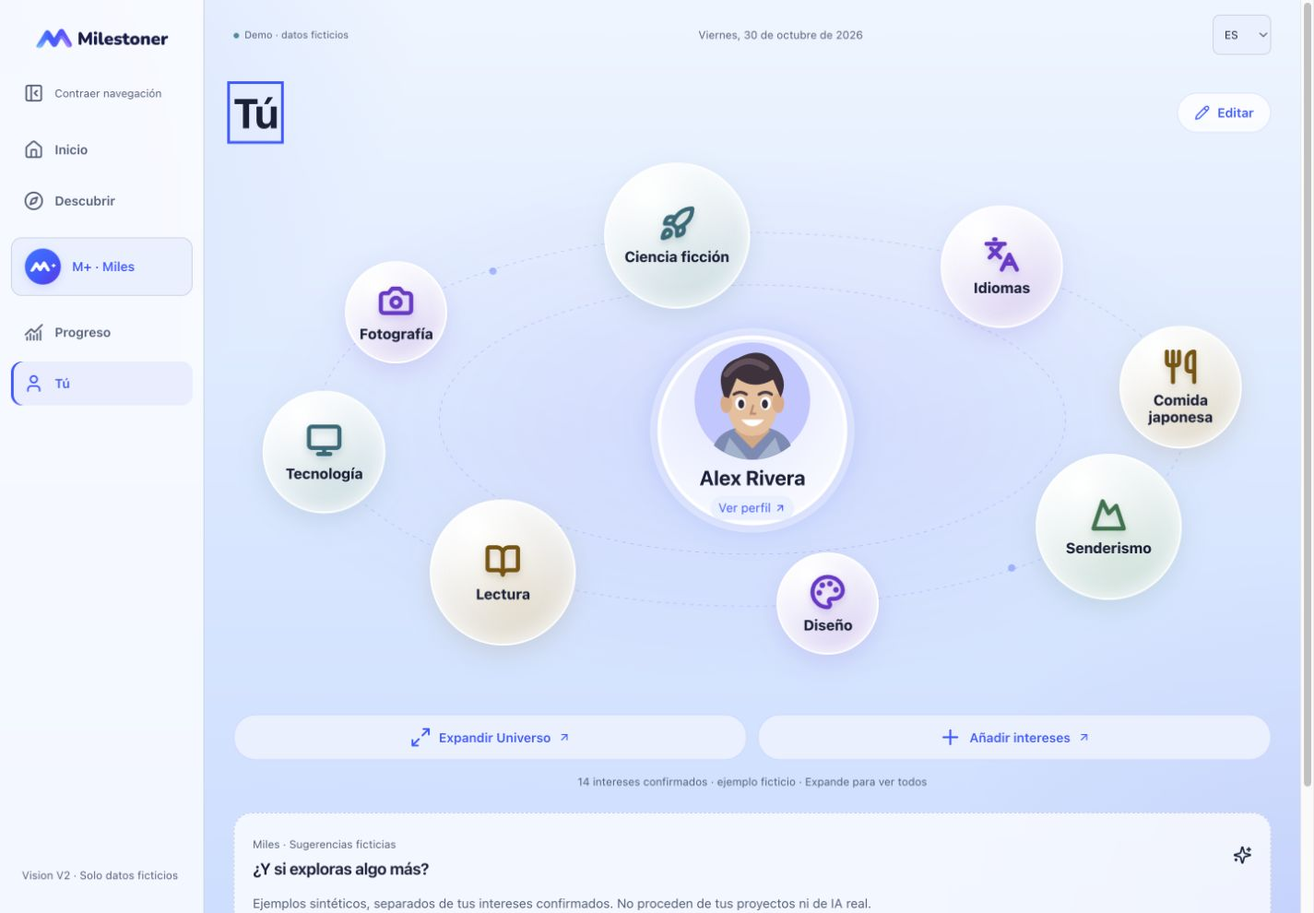
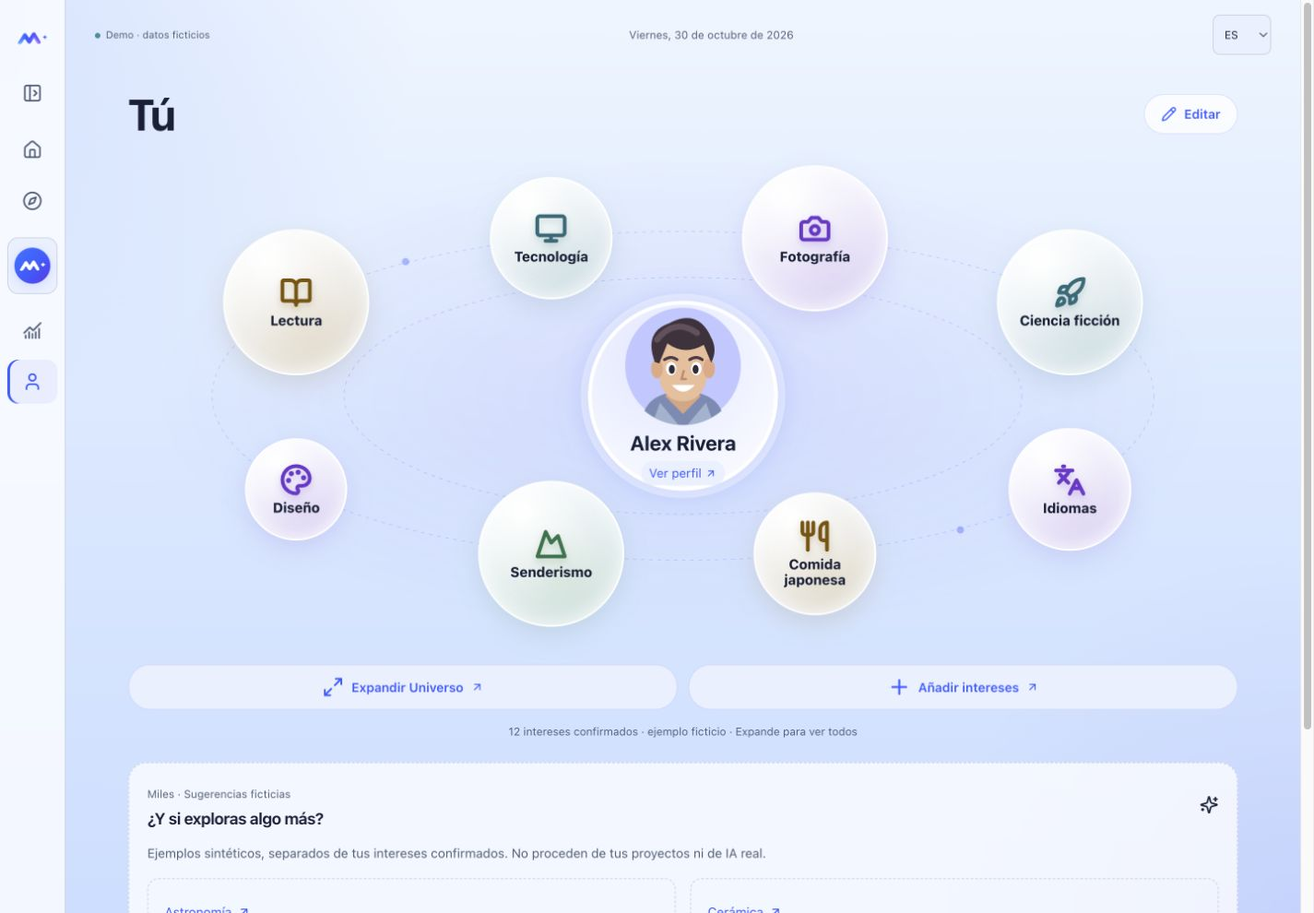
Compact the mobile orbit and unify the expanded Interest Universe

diff --git a/src/YouExperience.jsx b/src/YouExperience.jsx
@@ -18,7 +18,7 @@ export default function YouExperience({route,appState}){
  const [universe,setUniverse]=useState(()=>{try{return readInterests(localStorage)}catch{return readInterests()}}),[storageOk,setStorageOk]=useState(true),[editor,setEditor]=useState(null),[error,setError]=useState(''),[notice,setNotice]=useState('');
  const stage=useRef(),[stageWidth,setStageWidth]=useState(320);
  useEffect(()=>{if(!stage.current)return;const observer=new ResizeObserver(entries=>setStageWidth(entries[0].contentRect.width));observer.observe(stage.current);return()=>observer.disconnect()},[route]);
- const layout=universeLayout(stageWidth);
+ const layout=universeLayout(stageWidth,universe.confirmed.length,route==='you/expanded');
  const heading=useRef(),proposals=useRef(),expanded=route==='you/expanded',editing=route==='you/edit';
  const interestId=route.startsWith('you/interest/')?route.slice(13):null,confirmed=universe.confirmed.find(i=>i.id===interestId),suggestion=universe.suggestions.find(i=>i.id===interestId),interest=confirmed||suggestion;
  const affinityLabel=key=>({love:L('Me encanta','Love it'),like:L('Me gusta','Like it'),curious:L('Me da curiosidad','Curious'),'not-really':L('No mucho','Not really')})[key];
@@ -30,13 +30,13 @@ export default function YouExperience({route,appState}){
  const back=<a className="text-button you-back" href="#you"><ArrowLeft size={16}/>{L('Volver al Universo','Back to Universe')}</a>;
  const pending=universe.suggestions.filter(i=>i.status==='pending');
  const proposed=<section className="you-proposals" aria-labelledby="you-proposals-title"><div className="section-title"><div><span className="you-eyebrow">Miles · {L('Sugerencias ficticias','Fictional suggestions')}</span><h2 id="you-proposals-title" ref={proposals} tabIndex={-1}>{L('¿Y si exploras algo más?','What else could you explore?')}</h2></div><Sparkles size={21} aria-hidden="true"/></div><p>{L('Ejemplos sintéticos, separados de tus intereses confirmados. No proceden de tus proyectos ni de IA real.','Synthetic examples, separate from your confirmed interests. They are not derived from your projects or real AI.')}</p>{pending.length?<div className="you-proposal-grid">{pending.map(i=><div className="you-proposal" key={i.id}><button className="text-button" onClick={()=>location.hash='you/interest/'+i.id}>{interestLabel(i,language)}<ArrowUpRight size={15}/></button><span>{L('Propuesto · no confirmado','Suggested · not confirmed')}</span><div><button className="secondary" onClick={()=>reviewSuggestion('confirm',i)}><Plus size={15}/>{L('Añadir a mis intereses','Add to my interests')}</button><button className="text-button" onClick={()=>reviewSuggestion('decline',i)}>{L('No mucho','Not really')}</button></div></div>)}</div>:<p className="you-empty">{L('No quedan propuestas pendientes. No añadiremos otras automáticamente.','No suggestions remain pending. We will not add others automatically.')}</p>}</section>;
- function bubble(i,index){const Icon=iconMap[i.id]||Sparkles,slot=layout.nodes[index%8],label=interestLabel(i,language);return <button key={i.id} className={'interest-node affinity-'+i.affinity+(label.length>24?' long-name':'')} style={{...domainStyle(palettes[universe.confirmed.indexOf(i)%12]),'--node-x':slot.x+'px','--node-y':slot.y+'px','--node-diameter':affinityDiameter(i.affinity,layout.max,label.length>24)+'px'}} aria-label={`${label} · ${L('Confirmado','Confirmed')} · ${affinityLabel(i.affinity)}`} onClick={()=>location.hash='you/interest/'+i.id}><Icon size={42} aria-hidden="true"/><strong>{label}</strong></button>}
- function orbit(items,page){return <div className="universe-canvas" ref={page===0?stage:undefined} style={{height:layout.height,'--profile-diameter':layout.profile+'px'}} key={page} aria-label={L('Mapa de intereses confirmados','Confirmed interest map')}><svg className="universe-orbits" viewBox={`0 0 ${layout.width} ${layout.height}`} aria-hidden="true">{[.72,1].map(scale=><ellipse key={scale} cx={layout.cx} cy={layout.height*.5} rx={layout.rx*scale} ry={layout.ry*scale}/>)}{[.25,.75].map(t=><circle key={t} cx={layout.width*t} cy={layout.height*(t===.25?.23:.77)} r="4"/>)}</svg><a className="profile-node" href="#you/profile" aria-label={L('Alex Rivera · usuario ficticio · Ver perfil','Alex Rivera · fictional user · View Profile')}><IllustratedAvatar/><strong>Alex Rivera</strong><span>{L('Ver perfil','View Profile')}<ArrowUpRight size={13}/></span></a>{items.map(bubble)}</div>}
+ function bubble(i,index){const Icon=iconMap[i.id]||Sparkles,slot=layout.nodes[index],label=interestLabel(i,language);return <button key={i.id} className={'interest-node affinity-'+i.affinity+(label.length>24?' long-name':'')} style={{...domainStyle(palettes[universe.confirmed.indexOf(i)%12]),'--node-x':slot.x+'px','--node-y':slot.y+'px','--node-diameter':affinityDiameter(i.affinity,layout.max,label.length>24)+'px'}} aria-label={`${label} · ${L('Confirmado','Confirmed')} · ${affinityLabel(i.affinity)}`} title={label} onClick={()=>location.hash='you/interest/'+i.id}><Icon size={42} aria-hidden="true"/><strong>{label}</strong></button>}
+ function orbit(items){return <div className="universe-canvas" ref={stage} style={{height:layout.height,'--profile-diameter':layout.profile+'px','--profile-y':layout.cy+'px'}} aria-label={L('Mapa de intereses confirmados','Confirmed interest map')}><svg className="universe-orbits" viewBox={`0 0 ${layout.width} ${layout.height}`} aria-hidden="true">{[.72,1].map(scale=><ellipse key={scale} cx={layout.cx} cy={layout.cy} rx={layout.rx*scale} ry={layout.ry*scale}/>)}{[.25,.75].map(t=><circle key={t} cx={layout.width*t} cy={layout.height*(t===.25?.23:.77)} r="4"/>)}</svg><a className="profile-node" href="#you/profile" aria-label={L('Alex Rivera · usuario ficticio · Ver perfil','Alex Rivera · fictional user · View Profile')}><IllustratedAvatar/><strong>Alex Rivera</strong><span>{L('Ver perfil','View Profile')}<ArrowUpRight size={13}/></span></a>{items.map(bubble)}</div>}
  if(route==='you/settings')return null;
  const profile=route==='you/profile';
  return <article className={'you-page'+(expanded?' you-expanded':'')+(!profile&&!interestId?' you-orbital':'')}>
  {!storageOk&&<p role="alert">{L('El navegador no permite guardar intereses. Los cambios sólo durarán durante esta visita.','The browser cannot save interests. Changes last only for this visit.')}</p>}{notice&&<p className="sr-only" role="status">{notice}</p>}
- {profile?<>{back}<header className="you-profile-header"><UserAvatar/><div><span className="you-eyebrow">{L('Perfil privado · identidad ficticia','Private profile · fictional identity')}</span><h1 ref={heading} tabIndex={-1}>Alex Rivera</h1><p>@alex.demo</p><p>{L('Colecciono preguntas, caminos y buenas historias.','I collect questions, paths and good stories.')}</p></div><a className="secondary" href="#you/settings"><Settings size={17}/>{L('Ajustes generales','General Settings')}</a></header><p className="caption">{L('Sin cuenta, publicación ni enlaces para compartir. Este perfil es un ejemplo local; no es un sistema de autenticación.','No account, publishing or sharing links. This profile is a local example, not an authentication system.')}</p><div className="you-profile-grid"><section className="panel"><h2>{L('Tu recorrido','Your journey')}</h2><dl className="you-snapshot">{[L('Consistencia','Consistency'),L('Nivel Milestoner','Milestoner Level'),L('Metas activas','Active milestones'),L('Metas completadas','Completed milestones')].map(label=><div key={label}><dt>{label}</dt><dd>{L('No disponible en esta demo','Not available in this demo')}</dd></div>)}</dl><p className="caption">{L('No calculamos Consistencia, XP, niveles ni logros a partir de tareas de ejemplo.','We do not calculate Consistency, XP, levels or achievements from example tasks.')}</p><a className="text-button" href="#home">{L('Mis metas','My Milestones')}<ArrowUpRight size={16}/></a><p className="caption">{L('Abre tus proyectos de Tu vida en esta demo.','Opens your Your Life projects in this demo.')}</p></section><section className="panel"><h2>{L('Dominios principales','Top Domains')}</h2><p>{L('Sin clasificación aprobada disponible. No ordenamos tus dominios a partir de intereses o tareas.','No approved ranking is available. We do not rank your domains from interests or tasks.')}</p><h2>{L('Insignias destacadas','Featured Badges')}</h2><p>{L('No se han emitido insignias en esta demo.','No badges have been issued in this demo.')}</p><p><strong>{L('En Milestoner desde','Milestoner since')}</strong><br/>{L('1 de octubre de 2026 · fecha ficticia de ejemplo','October 1, 2026 · fictional example date')}</p></section><section className="panel you-highlights"><h2>{L('Registros recientes','Recent Highlights')}</h2><p className="caption">{L('Registros ficticios guardados, no premios ni logros calculados.','Saved fictional entries, not awards or calculated achievements.')}</p>{progressReport(appState,'all','year').rows.slice(0,3).map(r=><div key={r.id}><strong>{content(r,'label')}</strong><small>{dateLabel(r.date)} · {content(appState.projects.find(p=>p.id===r.project),'title')}</small></div>)}{!progressReport(appState,'all','year').rows.length&&<p>{L('Todavía no hay registros.','No entries yet.')}</p>}</section></div></>:interestId?<>{back}<header className="you-detail-heading"><span className="you-eyebrow">{confirmed?L('Interés confirmado por ti','Interest confirmed by you'):L('Propuesta ficticia · no confirmada','Fictional suggestion · not confirmed')}</span><h1 ref={heading} tabIndex={-1}>{interest?interestLabel(interest,language):L('Interés no disponible','Interest unavailable')}</h1></header>{interest&&(confirmed||suggestion?.status==='pending')?<form key={interestId} className="panel you-interest-form" onSubmit={e=>{e.preventDefault();const fields=Object.fromEntries(new FormData(e.currentTarget));if(apply({type:confirmed?'edit':'confirm',id:interest.id,...fields})&&!confirmed)location.hash='you'}}><p>{confirmed?L('Tu elección manda. Miles no cambiará esta afinidad ni la posición de tu interés por tu actividad.','Your choice takes precedence. Miles will not change this affinity or its position based on your activity.'):L('Una propuesta sintética para esta demo, no una inferencia de IA. Sólo aparecerá en tu Universo si eliges añadirla.','A synthetic proposal for this demo, not AI inference. It appears in your Universe only if you choose to add it.')}</p><label>{L('Tu afinidad','Your affinity')}<select name="affinity" defaultValue={interest.affinity}>{AFFINITIES.map(a=><option key={a} value={a}>{affinityLabel(a)}</option>)}</select></label><label>{L('Una nota para ti (opcional)','A note for yourself (optional)')}<textarea name="note" rows={3} maxLength={240} defaultValue={interest.note}/></label><div className="compact-dialog-actions"><button className="primary">{confirmed?L('Guardar cambios','Save changes'):L('Añadir a mis intereses','Add to my interests')}</button>{confirmed?<button type="button" className="text-button" onClick={()=>setEditor({kind:'remove',interest})}><Trash2 size={16}/>{L('Quitar interés','Remove interest')}</button>:<button type="button" className="text-button" onClick={()=>{if(apply({type:'decline',id:interest.id}))location.hash='you'}}>{L('No mucho','Not really')}</button>}</div><p className="caption">{L('Los intereses no crean proyectos, metas ni eventos.','Interests do not create projects, milestones or events.')}</p></form>:<p>{L('Este interés ya no está pendiente o fue retirado. Puedes volver al Universo.','This interest is no longer pending or was removed. Return to the Universe.')}</p>}</>:<><header className="you-universe-heading"><h1 ref={heading} tabIndex={-1}>{L('Tú','You')}</h1>{editing?<a className="secondary" href="#you">{L('Terminar','Done')}</a>:<a className="secondary" href="#you/edit"><Pencil size={17}/>{L('Editar','Edit')}</a>}</header>{expanded&&<a className="text-button" href="#you"><Minimize2 size={17}/>{L('Salir de la vista expandida','Leave expanded view')}</a>}{editing&&<p className="you-edit-hint">{L('Elige un interés para editar su afinidad o quitarlo.','Choose an interest to edit its affinity or remove it.')}</p>}{(expanded?Array.from({length:Math.max(1,Math.ceil(universe.confirmed.length/8))},(_,n)=>universe.confirmed.slice(n*8,n*8+8)):[universe.confirmed.slice(0,8)]).map(orbit)}<div className="you-universe-actions">{!expanded&&<a className="secondary" href="#you/expanded"><Maximize2 size={24}/>{L('Expandir Universo','Expand Universe')}<ArrowUpRight size={18}/></a>}<button className="secondary" onClick={()=>{setError('');setEditor({kind:'add'})}}><Plus size={26}/>{L('Añadir intereses','Add Interests')}<ArrowUpRight size={18}/></button></div><p className="you-universe-count">{universe.confirmed.length} {L('intereses confirmados · ejemplo ficticio','confirmed interests · fictional example')}{universe.confirmed.length>8&&!expanded?' · '+L('Expande para ver todos','Expand to see all'):''}</p>{universe.confirmed.length===0&&<p className="you-empty">{L('Tu perfil sigue aquí. Añade un interés desde Editar Universo cuando quieras.','Your profile is still here. Add an interest from Edit Universe whenever you like.')}</p>}{proposed}</>}
+ {profile?<>{back}<header className="you-profile-header"><UserAvatar/><div><span className="you-eyebrow">{L('Perfil privado · identidad ficticia','Private profile · fictional identity')}</span><h1 ref={heading} tabIndex={-1}>Alex Rivera</h1><p>@alex.demo</p><p>{L('Colecciono preguntas, caminos y buenas historias.','I collect questions, paths and good stories.')}</p></div><a className="secondary" href="#you/settings"><Settings size={17}/>{L('Ajustes generales','General Settings')}</a></header><p className="caption">{L('Sin cuenta, publicación ni enlaces para compartir. Este perfil es un ejemplo local; no es un sistema de autenticación.','No account, publishing or sharing links. This profile is a local example, not an authentication system.')}</p><div className="you-profile-grid"><section className="panel"><h2>{L('Tu recorrido','Your journey')}</h2><dl className="you-snapshot">{[L('Consistencia','Consistency'),L('Nivel Milestoner','Milestoner Level'),L('Metas activas','Active milestones'),L('Metas completadas','Completed milestones')].map(label=><div key={label}><dt>{label}</dt><dd>{L('No disponible en esta demo','Not available in this demo')}</dd></div>)}</dl><p className="caption">{L('No calculamos Consistencia, XP, niveles ni logros a partir de tareas de ejemplo.','We do not calculate Consistency, XP, levels or achievements from example tasks.')}</p><a className="text-button" href="#home">{L('Mis metas','My Milestones')}<ArrowUpRight size={16}/></a><p className="caption">{L('Abre tus proyectos de Tu vida en esta demo.','Opens your Your Life projects in this demo.')}</p></section><section className="panel"><h2>{L('Dominios principales','Top Domains')}</h2><p>{L('Sin clasificación aprobada disponible. No ordenamos tus dominios a partir de intereses o tareas.','No approved ranking is available. We do not rank your domains from interests or tasks.')}</p><h2>{L('Insignias destacadas','Featured Badges')}</h2><p>{L('No se han emitido insignias en esta demo.','No badges have been issued in this demo.')}</p><p><strong>{L('En Milestoner desde','Milestoner since')}</strong><br/>{L('1 de octubre de 2026 · fecha ficticia de ejemplo','October 1, 2026 · fictional example date')}</p></section><section className="panel you-highlights"><h2>{L('Registros recientes','Recent Highlights')}</h2><p className="caption">{L('Registros ficticios guardados, no premios ni logros calculados.','Saved fictional entries, not awards or calculated achievements.')}</p>{progressReport(appState,'all','year').rows.slice(0,3).map(r=><div key={r.id}><strong>{content(r,'label')}</strong><small>{dateLabel(r.date)} · {content(appState.projects.find(p=>p.id===r.project),'title')}</small></div>)}{!progressReport(appState,'all','year').rows.length&&<p>{L('Todavía no hay registros.','No entries yet.')}</p>}</section></div></>:interestId?<>{back}<header className="you-detail-heading"><span className="you-eyebrow">{confirmed?L('Interés confirmado por ti','Interest confirmed by you'):L('Propuesta ficticia · no confirmada','Fictional suggestion · not confirmed')}</span><h1 ref={heading} tabIndex={-1}>{interest?interestLabel(interest,language):L('Interés no disponible','Interest unavailable')}</h1></header>{interest&&(confirmed||suggestion?.status==='pending')?<form key={interestId} className="panel you-interest-form" onSubmit={e=>{e.preventDefault();const fields=Object.fromEntries(new FormData(e.currentTarget));if(apply({type:confirmed?'edit':'confirm',id:interest.id,...fields})&&!confirmed)location.hash='you'}}><p>{confirmed?L('Tu elección manda. Miles no cambiará esta afinidad ni la posición de tu interés por tu actividad.','Your choice takes precedence. Miles will not change this affinity or its position based on your activity.'):L('Una propuesta sintética para esta demo, no una inferencia de IA. Sólo aparecerá en tu Universo si eliges añadirla.','A synthetic proposal for this demo, not AI inference. It appears in your Universe only if you choose to add it.')}</p><label>{L('Tu afinidad','Your affinity')}<select name="affinity" defaultValue={interest.affinity}>{AFFINITIES.map(a=><option key={a} value={a}>{affinityLabel(a)}</option>)}</select></label><label>{L('Una nota para ti (opcional)','A note for yourself (optional)')}<textarea name="note" rows={3} maxLength={240} defaultValue={interest.note}/></label><div className="compact-dialog-actions"><button className="primary">{confirmed?L('Guardar cambios','Save changes'):L('Añadir a mis intereses','Add to my interests')}</button>{confirmed?<button type="button" className="text-button" onClick={()=>setEditor({kind:'remove',interest})}><Trash2 size={16}/>{L('Quitar interés','Remove interest')}</button>:<button type="button" className="text-button" onClick={()=>{if(apply({type:'decline',id:interest.id}))location.hash='you'}}>{L('No mucho','Not really')}</button>}</div><p className="caption">{L('Los intereses no crean proyectos, metas ni eventos.','Interests do not create projects, milestones or events.')}</p></form>:<p>{L('Este interés ya no está pendiente o fue retirado. Puedes volver al Universo.','This interest is no longer pending or was removed. Return to the Universe.')}</p>}</>:<><header className="you-universe-heading"><h1 ref={heading} tabIndex={-1}>{L('Tú','You')}</h1>{editing?<a className="secondary" href="#you">{L('Terminar','Done')}</a>:<a className="secondary" href="#you/edit"><Pencil size={17}/>{L('Editar','Edit')}</a>}</header>{expanded&&<a className="text-button" href="#you"><Minimize2 size={17}/>{L('Salir de la vista expandida','Leave expanded view')}</a>}{editing&&<p className="you-edit-hint">{L('Elige un interés para editar su afinidad o quitarlo.','Choose an interest to edit its affinity or remove it.')}</p>}{orbit(expanded?universe.confirmed:universe.confirmed.slice(0,8))}<div className="you-universe-actions">{!expanded&&<a className="secondary" href="#you/expanded"><Maximize2 size={24}/>{L('Expandir Universo','Expand Universe')}<ArrowUpRight size={18}/></a>}<button className="secondary" onClick={()=>{setError('');setEditor({kind:'add'})}}><Plus size={26}/>{L('Añadir intereses','Add Interests')}<ArrowUpRight size={18}/></button></div><p className="you-universe-count">{universe.confirmed.length} {L('intereses confirmados · ejemplo ficticio','confirmed interests · fictional example')}{universe.confirmed.length>8&&!expanded?' · '+L('Expande para ver todos','Expand to see all'):''}</p>{universe.confirmed.length===0&&<p className="you-empty">{L('Tu perfil sigue aquí. Añade un interés desde Editar Universo cuando quieras.','Your profile is still here. Add an interest from Edit Universe whenever you like.')}</p>}{proposed}</>}
  {editor&&<CompactDialog title={editor.kind==='add'?L('Añadir un interés confirmado','Add a confirmed interest'):L('Quitar interés','Remove interest')} onClose={()=>setEditor(null)}>{editor.kind==='remove'?<><p>{interestLabel(editor.interest,language)}</p><p>{L('Se quitará sólo de tu Universo. Los proyectos y registros no cambian.','Removed only from your Universe. Projects and entries do not change.')}</p><div className="compact-dialog-actions"><button className="primary" onClick={()=>{apply({type:'remove',id:editor.interest.id});setEditor(null);location.hash='you'}}>{L('Confirmar eliminación','Confirm removal')}</button><button className="text-button" onClick={()=>setEditor(null)}>{L('Cancelar','Cancel')}</button></div></>:<form onSubmit={e=>{e.preventDefault();if(apply({type:'add',...Object.fromEntries(new FormData(e.currentTarget))}))setEditor(null)}}><label>{L('Nombre del interés','Interest name')}<input name="name" autoFocus required pattern=".*\S.*" maxLength={60}/></label><label>{L('Afinidad','Affinity')}<select name="affinity" defaultValue="curious">{AFFINITIES.map(a=><option key={a} value={a}>{affinityLabel(a)}</option>)}</select></label><p className="caption">{L('Sólo datos ficticios. Se añadirá como confirmado por ti.','Fictional data only. Added as confirmed by you.')}</p>{error&&<p role="alert">{L('Ese interés ya existe. No se ha duplicado ni cambiado tu afinidad.','That interest already exists. It was not duplicated and your affinity was not changed.')}</p>}<div className="compact-dialog-actions"><button className="primary">{L('Añadir interés','Add interest')}</button><button type="button" className="text-button" onClick={()=>setEditor(null)}>{L('Cancelar','Cancel')}</button></div></form>}</CompactDialog>}
  </article>;
 }

diff --git a/src/universe-layout.js b/src/universe-layout.js
@@ -1,17 +1,25 @@
-// Presentation geometry only. Never changes saved interest order or affinity.
-export function universeLayout(width){
- const w=Math.max(240,width),wide=w>=700,max=wide?160:120,profile=wide?208:148,gap=12;
- const fractions=wide?[-145,-100,-55,-10,35,80,125,170].map(a=>{const r=a*Math.PI/180;return [.5+(.5-(max/2+gap)/w)*Math.cos(r),.5+.34*Math.sin(r)]}):[[.38,.12],[.79,.23],[.85,.39],[.84,.73],[.76,.92],[.36,.85],[.17,.66],[.17,.35]];
- const nodes=fractions.map(([x,y])=>({x:Math.max(max/2+gap,Math.min(w-max/2-gap,w*x)),y}));
- const all=[...nodes,{x:w/2,y:.52}],radii=[...nodes.map(()=>max/2),profile/2+8];let height=wide?510:720;
- for(let i=0;i<all.length;i++)for(let j=i+1;j<all.length;j++){
-  const dx=all[i].x-all[j].x,dy=Math.abs(all[i].y-all[j].y),distance=radii[i]+radii[j]+gap;
-  if(Math.abs(dx)<distance&&dy)height=Math.max(height,Math.sqrt(distance*distance-dx*dx)/dy);
+// Presentation only: count and container width determine slots, never affinity or data order.
+function arcSlots(count,rx,ry){
+ const samples=1024,points=[],lengths=[0];
+ for(let i=0;i<=samples;i++){const a=-Math.PI/2+i*2*Math.PI/samples;points.push({x:rx*Math.cos(a),y:ry*Math.sin(a)});if(i)lengths.push(lengths[i-1]+Math.hypot(points[i].x-points[i-1].x,points[i].y-points[i-1].y))}
+ return Array.from({length:count},(_,i)=>{const target=(i+.5)*lengths[samples]/count;let j=1;while(lengths[j]<target)j++;const t=(target-lengths[j-1])/(lengths[j]-lengths[j-1]);return {x:points[j-1].x+(points[j].x-points[j-1].x)*t,y:points[j-1].y+(points[j].y-points[j-1].y)*t}});
+}
+export function universeLayout(width,count=8,expanded=false){
+ const w=Math.max(240,width),n=expanded?count:Math.min(count,8),wide=w>=700,gap=12,max=wide?160:Math.min(112,Math.max(92,w*96/273)),profile=wide?208:Math.min(140,Math.max(120,w*.47)),pad=max/2+gap;
+ if(!wide){
+  const outer=w/2-pad,inner=(max+gap)/2,rows=expanded&&n>8?Math.ceil(n/2):4,split=Math.floor(rows/2),step=max+gap,centerGap=max/2+profile/2+20;
+  const cy=pad+(split-1)*step+centerGap,height=pad*2+(rows-2)*step+centerGap*2;
+  const nodes=Array.from({length:n},(_,i)=>{const row=Math.floor(i/2),side=i%2?1:-1;const spread=rows===4?(row===0||row===3?inner:outer):inner+(outer-inner)*Math.sin(Math.PI*(row+.5)/rows);return {x:w/2+side*spread,y:pad+row*step+(row>=split?centerGap*2-step:0)}});
+  return {width:w,height,max,profile,nodes,cx:w/2,cy,rx:outer,ry:height/2-pad};
  }
- height=Math.ceil(height);return {width:w,height,max,profile,nodes:nodes.map(n=>({x:n.x,y:n.y*height})),cx:w/2,cy:height*.52,rx:w/2-max/2-gap,ry:height*.34};
+ const rx=w/2-pad;let ry=180,nodes=[];
+ // Expanded collections may grow vertically; normal desktop stays a compact ellipse.
+ for(let attempt=0;attempt<400;attempt++){
+  nodes=arcSlots(n,rx,ry);
+  const collision=nodes.some((a,i)=>Math.hypot(a.x,a.y)<max/2+profile/2+gap+8||nodes.slice(i+1).some(b=>Math.hypot(a.x-b.x,a.y-b.y)<max+gap));
+  if(!collision)break;ry+=8;
+ }
+ const height=2*(ry+pad),cy=height/2;
+ return {width:w,height,max,profile,nodes:nodes.map(p=>({x:p.x+w/2,y:p.y+cy})),cx:w/2,cy,rx,ry};
 }
-export function affinityDiameter(affinity,max,longName=false){
- const scale={love:1,like:.84,curious:.70,'not-really':.60}[affinity]??.70;
- // Localized names retain a readable floor; tiers remain distinct at narrow widths.
- return longName?max-({love:0,like:1,curious:2,'not-really':3}[affinity]??2)*4:Math.max(max*scale,84+({love:3,like:2,curious:1,'not-really':0}[affinity]??1)*4);
-}
+export function affinityDiameter(affinity,max){return Math.max(56,max*({love:1,like:.84,curious:.70,'not-really':.60}[affinity]??.70))}

diff --git a/tests/universe-layout.test.js b/tests/universe-layout.test.js
@@ -1,4 +1,5 @@
 import test from 'node:test';import assert from 'node:assert/strict';
 import {universeLayout,affinityDiameter} from '../src/universe-layout.js';
-test('orbital layout reserves every maximum diameter and the profile at all responsive widths',()=>{for(let w=250;w<=1300;w+=10){const l=universeLayout(w),nodes=[...l.nodes.map(n=>({...n,r:l.max/2})),{x:l.cx,y:l.cy,r:l.profile/2+8}];for(const [i,a] of nodes.entries()){assert.ok(a.x-a.r>=0&&a.x+a.r<=w);assert.ok(a.y-a.r>=0&&a.y+a.r<=l.height);for(const b of nodes.slice(i+1))assert.ok(Math.hypot(a.x-b.x,a.y-b.y)>=a.r+b.r+11.9,`collision at ${w}`)}assert.deepEqual(l,universeLayout(w))}});
-test('four explicit affinity sizes remain ordered, touchable and within reserved geometry',()=>{for(const w of [272,342,700,1000,1280])for(const long of [false,true]){const l=universeLayout(w),sizes=['love','like','curious','not-really'].map(a=>affinityDiameter(a,l.max,long));assert.ok(sizes.every(s=>s>=44&&s<=l.max));assert.ok(sizes.every((s,i)=>!i||s<sizes[i-1]));assert.deepEqual(l,universeLayout(w))}});
+import {initialInterests,changeInterest} from '../src/interest-model.js';
+test('single universe reserves maximum bubbles and one profile for normal and expanded collection sizes',()=>{for(const w of [273,328,343,381,689,721,1137,1280])for(const count of [0,1,8,9,12,16,24])for(const expanded of [false,true]){const l=universeLayout(w,count,expanded);assert.equal(l.nodes.length,expanded?count:Math.min(count,8));assert.equal(new Set(l.nodes.map(n=>`${n.x},${n.y}`)).size,l.nodes.length);const nodes=[...l.nodes.map(n=>({...n,r:l.max/2})),{x:l.cx,y:l.cy,r:l.profile/2+8}];for(const [i,a] of nodes.entries()){assert.ok(a.x-a.r>=0&&a.x+a.r<=w);assert.ok(a.y-a.r>=0&&a.y+a.r<=l.height);for(const b of nodes.slice(i+1))assert.ok(Math.hypot(a.x-b.x,a.y-b.y)>=a.r+b.r+3,`collision ${w}/${count}/${expanded}`)}assert.deepEqual(l,universeLayout(w,count,expanded));if(w<700&&!expanded)assert.ok(l.height<720)}});
+test('four affinity tiers fit reserved slots without growing long-name bubbles or changing saved order',()=>{for(const w of [273,343,700,1280]){let s=initialInterests();const before=s.confirmed.map(i=>i.id),l=universeLayout(w,s.confirmed.length,true);const sizes=['love','like','curious','not-really'].map(a=>{s=changeInterest(s,{type:'edit',id:'photography',affinity:a,note:''}).state;assert.deepEqual(s.confirmed.map(i=>i.id),before);assert.deepEqual(l,universeLayout(w,s.confirmed.length,true));return affinityDiameter(a,l.max)});assert.ok(sizes.every(s=>s>=44&&s<=l.max));assert.ok(sizes.every((s,i)=>!i||s<sizes[i-1]))}});

diff --git a/public/review/index.html b/public/review/index.html
@@ -1,0 +1,1 @@
+<!doctype html><html lang="es"><meta charset="utf-8"><meta name="viewport" content="width=device-width,initial-scale=1"><title>You — revisión visual actual</title><style>body{font:16px system-ui;background:#eef3ff;color:#15213b;margin:24px}main{max-width:1500px;margin:auto}section{display:grid;grid-template-columns:repeat(2,minmax(0,1fr));gap:20px}figure{margin:0}img{width:100%;height:auto;border-radius:14px}figcaption{padding:10px 0}a{color:#315bff}.mobile{grid-template-columns:repeat(3,minmax(0,1fr))}@media(max-width:700px){section,.mobile{grid-template-columns:1fr}}</style><main><h1>You · V2.5B.1c</h1><p>Candidata visual · pendiente de revisión del propietario. Datos ficticios.</p><p><a href="../#you">Abrir preview navegable</a></p><h2>Escritorio 1440 px · comparación directa</h2><section><figure><img src="you-desktop.jpg" alt="Universo normal en escritorio"><figcaption>Normal · ocho intereses visibles</figcaption></figure><figure><img src="you-desktop-expanded.jpg" alt="Universo expandido en escritorio con un único avatar"><figcaption>Expandido · doce intereses y un único perfil</figcaption></figure></section><h2>Móvil</h2><section class="mobile"><figure><img src="you-mobile-320.jpg" alt="Universo normal a 320 px"><figcaption>320 px · normal</figcaption></figure><figure><img src="you-mobile.jpg" alt="Universo normal a 390 px"><figcaption>390 px · normal</figcaption></figure><figure><img src="you-mobile-expanded.jpg" alt="Universo expandido a 390 px"><figcaption>390 px · expandido</figcaption></figure></section></main></html>

diff --git a/src/you.css b/src/you.css
@@ -25,3 +25,11 @@
 .you-orbital .interest-node>svg{width:clamp(25px,4cqw,40px);height:clamp(25px,4cqw,40px)}
 .you-orbital .interest-node.long-name>svg{width:22px;height:22px}
 .you-orbital .universe-canvas{background:radial-gradient(ellipse at center,color-mix(in srgb,var(--brand-violet) 8%,transparent),transparent 68%)}
+
+/* Compact labels are previews; full names remain in accessible names and Interest Detail. */
+.you-orbital .profile-node{top:var(--profile-y)}
+.you-orbital .interest-node{padding:6px;gap:4px}
+.you-orbital .interest-node strong{font-size:clamp(.6875rem,1.3cqw,.95rem);line-height:1.12;display:-webkit-box;-webkit-box-orient:vertical;-webkit-line-clamp:2;overflow:hidden;max-width:100%}
+.you-orbital .interest-node.long-name strong{font-size:clamp(.6875rem,1.3cqw,.95rem)}
+.you-orbital .interest-node>svg{width:clamp(26px,4cqw,36px);height:clamp(26px,4cqw,36px)}
+.you-orbital .interest-node.affinity-not-really>svg{width:20px;height:20px}

diff --git a/VALIDATION.md b/VALIDATION.md
@@ -28,7 +28,7 @@ Run the public build under the Pages base, not only the development server:
 - Agenda from Today/Project Details; explicit dates only, project filter, chronological type labels, untimed items, private masking until reveal, recurrence labels without expansion, week/date/hash Back/Forward/reload and M+ return. Event creation starts blank, review does not save, explicit confirmation/identity-preserving edit, duplicate explanation without draft loss, cancel/discard/focus restoration. Compare original activity/reminder/event records across Agenda, Today and Project Details.
 - Progress: Overall/project views for week/month/year, count distribution versus unit-specific values, finance period contributions versus lifetime savings/remaining, fitness maximum versus sum, learning sessions/practice days without B1 proficiency, travel without completion, generic and empty projects. Compare shared lifetime metrics with Project Details; invalid/future/private/orphan records never enter charts/history. Verify text equivalents, filters/keyboard, long titles, EN/ES, Light/Dark and mobile/desktop overflow/centering.
 - Discover: independent eight-idea catalog, four categories, search/case/accents and no-result reset; readable long EN/ES titles at mobile/desktop widths and both appearances. Explore opens the matching manual proposal, editable and undated; cancellation saves nothing, explicit confirmation preserves existing projects/IDs and reload. Verify existing-project access, bilingual title matches, edited-title matching, explicit duplicate wording, focus restoration and unchanged scripted creation.
-- You: direct Universe entry; central user node → Profile → General Settings; interest detail and all four affinities, stable node order, custom add/duplicate/remove, proposed Add/Not really separated from confirmed nodes and persisted after reload. Orbital composition at 320/390/768/1280/1440/wide desktop widths, eight normal nodes, complete saved-order collection in expanded scrolling orbits, all four affinity sizes and stable positions after explicit edits, maximum-size collision reservation, long names, original illustrated avatar, lower actions. Expanded entry/exit/Escape and additional nodes, Back/Forward and M+ return. Check 320/390 px and desktop/sidebar states, EN/ES, Light/Dark, readable targets/names, no clipping/overlap, keyboard/focus and no continuous animation. Profile must not invent milestone metrics or achievements; existing language/modes/context/reset confirmation remain available and app records remain unchanged.
+- You: direct Universe entry; central user node → Profile → General Settings; interest detail and all four affinities, stable node order, custom add/duplicate/remove, proposed Add/Not really separated from confirmed nodes and persisted after reload. Orbital composition at 320/375/390/428/768/1024/1440 widths and counts 0/1/8/9/12/16/24, eight normal nodes, complete saved-order collection in one expanded orbit with exactly one avatar and one node per confirmed ID, all four affinity sizes and stable positions after explicit edits, maximum-size collision reservation, long names, original illustrated avatar, lower actions. Expanded entry/exit/Escape and additional nodes, Back/Forward and M+ return. Check 320/390 px and desktop/sidebar states, EN/ES, Light/Dark, readable targets/names, no clipping/overlap, keyboard/focus and no continuous animation. Profile must not invent milestone metrics or achievements; existing language/modes/context/reset confirmation remain available and app records remain unchanged.
 - Isolated Theme Playground loads without adopting app state or current Home behavior.
 
 After normal push, verify the workflow for the exact commit succeeded, remote `main` matches the commit and the public HTTPS preview loads the new bundle and relevant flows. A local build alone is not a verified deployment.

diff --git a/README.md b/README.md
@@ -77,9 +77,9 @@ Pending owner UX acceptance: the catalog, editorial card presentation and explic
 
 ## You — Interest Universe V2.5B.1
 
-You opens directly into an authored orbital composition, including mobile. Eight confirmed interests are shown in saved order; Expand Universe reveals the complete collection on successive orbital surfaces with normal page scrolling. No records are deleted or reordered. The large central fictional Alex Rivera portrait is an original inline SVG; Profile and General Settings retain their existing routes. Edit opens explicit management; Add Interests opens the existing confirmation form.
+You opens directly into an authored orbital composition, including mobile. Eight confirmed interests are shown in saved order; Expand Universe reveals the complete collection in ONE continuous orbital surface with ONE central avatar and normal page scrolling. No records are deleted or reordered. The large central fictional Alex Rivera portrait is an original inline SVG; Profile and General Settings retain their existing routes. Edit opens explicit management; Add Interests opens the existing confirmation form.
 
-V2.5B.1a follows the supplied luminous visual reference: pastel translucent circular surfaces, bold names and large icons, dashed orbital paths, restrained decorative dots and two lower actions. Affinity remains in accessible labels and Interest Detail. V2.5B.1b uses four explicit affinity diameter tiers (Love it, Like it, Curious, Not really), with readable floors for narrow screens and long names. Geometry reserves the largest tier independently of saved affinities, so edits do not move nodes. Desktop uses a wide ellipse in the available workspace (up to 1280px) and a blended ambient background; mobile retains an authored portrait orbit. ResizeObserver updates presentation geometry only. Suggestions remain separate and require explicit Add or Not really. No grid breakpoint, physics, auto-insertion or continuous motion is used.
+V2.5B.1a follows the supplied luminous visual reference: pastel translucent circular surfaces, bold names and large icons, dashed orbital paths, restrained decorative dots and two lower actions. Affinity remains in accessible labels and Interest Detail. V2.5B.1c uses four bounded explicit affinity diameter tiers (Love it, Like it, Curious, Not really). Mobile normal mode uses four authored pairs around a smaller central profile and a bounded stage; long names use a two-line preview with the full original name in the accessible label, tooltip and Interest Detail. They never enlarge every tier. Geometry reserves the largest tier independently of saved affinities, so edits do not move nodes. Desktop uses a wide ellipse in the available workspace (up to 1280px) and a blended ambient background; mobile retains a compact paired portrait orbit. Expanded desktop uses arc-length spacing on one adaptive ellipse; expanded mobile uses one vertically explorable composition with a single central profile. No chunks of eight or cyclic slot reuse remain. ResizeObserver updates presentation geometry only. Suggestions remain separate and require explicit Add or Not really. No grid breakpoint, physics, auto-insertion or continuous motion is used.
 
 The additive key `milestoner-vision-v2-interest-universe-v1` holds only current demo interests and suggestion decisions. Existing application keys/records are unchanged. Storage denial falls back to page memory. The existing application reset retains this isolated Universe; interests remain explicitly managed through Edit Universe. This is not native inference/history/Sync architecture.
 
